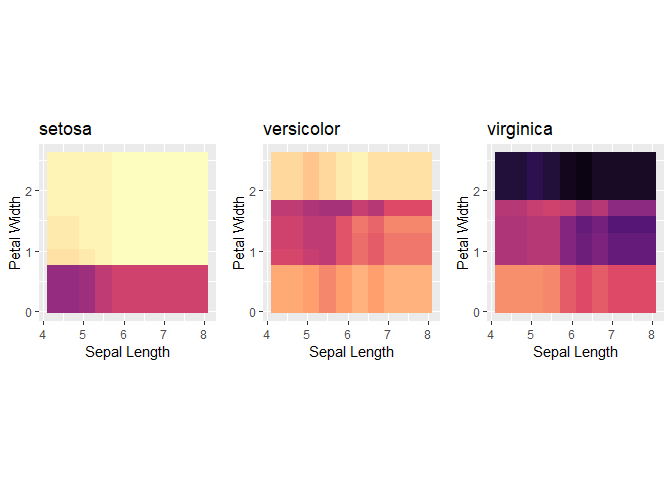
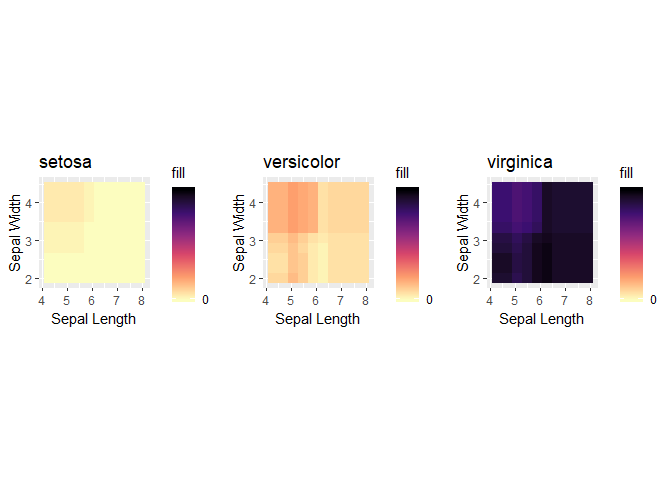
removed Friedman's H-statistic calculation function

diff --git a/README.md b/README.md
@@ -133,3 +133,42 @@ gridExtra::grid.arrange(p1, p2, p3, ncol=3)
 ```
 
 <img src="man/figures/README-unnamed-chunk-6-1.png" width="100%" />
+
+``` r
+SL_SW_interaction <- twowayinteraction(forest, Sepal.Length, Sepal.Width, iris, iris, grid.resolution=10)
+#> Joining, by = "id"
+head(SL_SW_interaction)
+#> # A tibble: 6 x 9
+#>   Sepal.Length Sepal.Width Petal.Length Petal.Width Species    id setosa
+#>          <dbl>       <dbl>        <dbl>       <dbl> <fct>   <int>  <dbl>
+#> 1          4.3           2          1.4         0.2 setosa      1   0.96
+#> 2          4.3           2          1.4         0.2 setosa      2   0.96
+#> 3          4.3           2          1.3         0.2 setosa      3   0.96
+#> 4          4.3           2          1.5         0.2 setosa      4   0.96
+#> 5          4.3           2          1.4         0.2 setosa      5   0.96
+#> 6          4.3           2          1.7         0.4 setosa      6   0.96
+#> # ... with 2 more variables: versicolor <dbl>, virginica <dbl>
+
+
+f1 <-  ggplot(
+  data = SL_SW_interaction, aes_string(x = SL_SW_interaction$Sepal.Length,y = SL_SW_interaction$Sepal.Width, z = SL_SW_interaction$setosa, fill = SL_SW_interaction$setosa
+  ))+geom_tile() + 
+  scale_fill_viridis_c(limits = c(0, 1), breaks = seq(0, 1, 100),option = "A", direction = -1)+
+  xlab("Sepal Length") + ylab("Sepal Width") + theme( aspect.ratio=1)+ggtitle("setosa")
+
+f2 <-  ggplot(
+  data = SL_SW_interaction, aes_string(x = SL_SW_interaction$Sepal.Length,y = SL_SW_interaction$Sepal.Width, z = SL_SW_interaction$versicolor, fill = SL_SW_interaction$versicolor
+  ))+geom_tile() + 
+  scale_fill_viridis_c(limits = c(0, 1), breaks = seq(0, 1, 100),option = "A", direction = -1)+
+  xlab("Sepal Length") + ylab("Sepal Width") + theme( aspect.ratio=1)+ggtitle("versicolor")
+
+f3 <-  ggplot(
+  data = SL_SW_interaction, aes_string(x = SL_SW_interaction$Sepal.Length,y = SL_SW_interaction$Sepal.Width, z = SL_SW_interaction$virginica, fill = SL_SW_interaction$virginica
+  ))+geom_tile() + 
+  scale_fill_viridis_c(limits = c(0, 1), breaks = seq(0, 1, 100),option = "A", direction = -1)+
+  xlab("Sepal Length") + ylab("Sepal Width") + theme( aspect.ratio=1)+ggtitle("virginica")
+
+gridExtra::grid.arrange(f1, f2, f3, ncol=3)
+```
+
+<img src="man/figures/README-unnamed-chunk-7-1.png" width="100%" />
